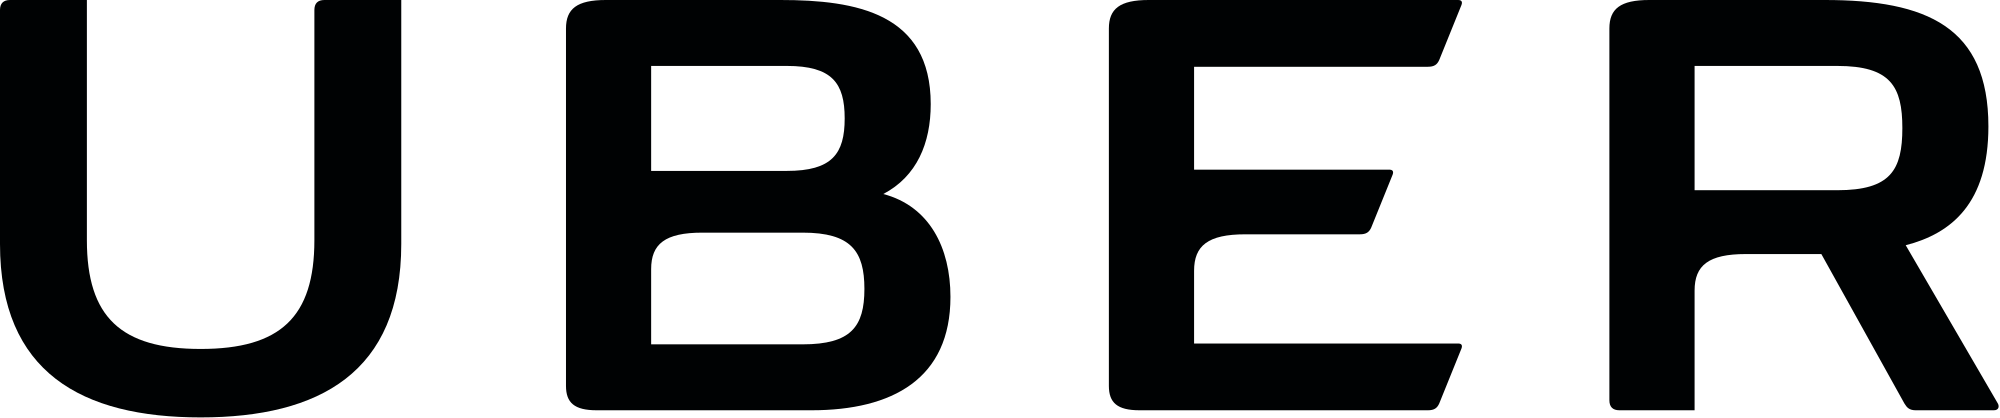
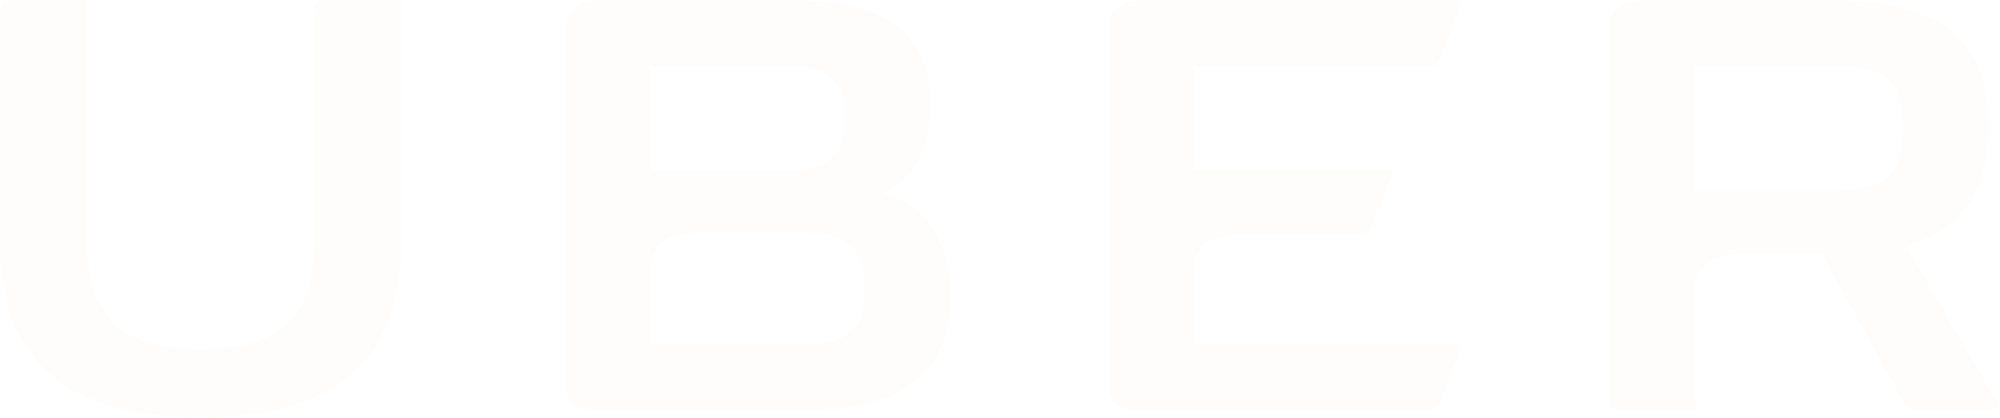
fade in effect

diff --git a/public/index.html b/public/index.html
@@ -29,13 +29,23 @@
     <link href="https://fonts.googleapis.com/css?family=Monoton" rel="stylesheet">
     <script src="https://ajax.googleapis.com/ajax/libs/jquery/3.3.1/jquery.min.js"></script>
 <!--For drop down menu-->
+
+<!--js for dropdown-->
+
 <script> 
 $(document).ready(function(){
     $("#flip").click(function(){
-        $("#panel").slideToggle("slow");
+        $("#panel").slideToggle();
     });
 });
 </script>
+<!--js for fade in of image-->
+<script>
+$(document).ready(function(){
+    $(".home").hide(0).delay(500).fadeIn(3000)
+});
+</script>
+
 
      <script src="https://code.jquery.com/jquery-1.10.2.js"></script>
     <link rel="stylesheet" type="text/css" href="theme.css">
@@ -106,25 +116,31 @@ $(document).ready(function(){
             <div class="box-1">
                 <br>
                 <img src="images/tangerine.svg" alt="payTM logo" height="50px">
-                    <p>$50</p>  
-                    <p>Referral code:         
-                        <br><br>
-                             <!-- The text field -->
-                        <input type="text" value="42786582S1" id="myInputTangerine">
-                           <br>
-                           <br>
-                
-                           <!-- The button used to copy the text -->
-                        <button class="button" onclick="myFunctionTangerine()">Copy code</button>
-        <br><br>
+                <p>$50</p>  
+                <p>Referral code:         
+                <br><br>
+                     <!-- The text field -->
+                <input type="text" value="42786582S1" id="myInputTangerine">
+                <br>
+                <br>
+                   <!-- The button used to copy the text -->
+                <input type="button" class="button" value="Copy Discount Code" id="tangerineButton" onclick="myFunctionTangerine()"></input>
+       
+          <div id="flip">Click here to learn what Tangerine is!</div>
+            <div id="panel">Lorem ipsum dolor sit amet, consectetur adipisicing elit, sed do eiusmod
+            tempor incididunt ut labore et dolore magna aliqua. Ut enim ad minim veniam,
+            quis nostrud exercitation ullamco laboris nisi ut aliquip ex ea commodo
+            consequat. Duis aute irure dolor in reprehenderit in voluptate velit esse
+            cillum dolore eu fugiat nulla pariatur. Excepteur sint occaecat cupidatat non
+            proident, sunt in culpa qui officia deserunt mollit anim id est laborum.
+            <br><br>
         <a href="https://www.google.com">
             <img src="https://upload.wikimedia.org/wikipedia/commons/thumb/c/cd/Get_it_on_Google_play.svg/272px-Get_it_on_Google_play.svg.png" height="35px"> 
         </a>
         <a href="https://www.google.com">
             <img src="https://upload.wikimedia.org/wikipedia/commons/thumb/3/3c/Download_on_the_App_Store_Badge.svg/270px-Download_on_the_App_Store_Badge.svg.png" height="35px">
-        </a>    
-          <div id="flip">Click here to learn what Tangerine is!</div>
-            <div id="panel">Hello world!</div>
+        </a>  
+        </div>  
             
         </div class ="box-1">
             
@@ -135,7 +151,7 @@ $(document).ready(function(){
             <div class="box-1">
                 <br>
                 <div class="image-box">
-                    <img src="images/ritual.svg" alt="ritual logo" height=90px>
+                    <img src="images/ritual.png" alt="ritual logo" height=40px>
                 </div>
                 
                 <p>$10</p>

diff --git a/public/myscripts.js b/public/myscripts.js
@@ -7,15 +7,13 @@ function changeText(){
 }
 
   function myFunctionTangerine() {
+    document.getElementById("tangerineButton").value="Copied!";
     /* Get the text field */
     var copyText = document.getElementById("myInputTangerine");
-  
     /* Select the text field */
     copyText.select();
-  
     /* Copy the text inside the text field */
     document.execCommand("copy");
-  
     /* Alert the copied text 
     alert("Copied the code: " + copyText.value);
     */

diff --git a/public/theme.css b/public/theme.css
@@ -28,7 +28,7 @@ body{
     margin: -200px ;
     padding: 230px;
     text-align: center;
-    font-size: 50px;
+    font-size: 2em;
     font-family: 'Monoton', cursive;
   
 
@@ -269,11 +269,12 @@ ul.topnav li.right {float: right;}
   }
 /*EXPANDABLE DROPDOWN MENU */
 #panel, #flip {
-    padding: 5px;
+    padding: 15px;
     text-align: center;
 }
 
 #panel {
+    text-align: center;
     padding: 50px;
     display: none;
 }
